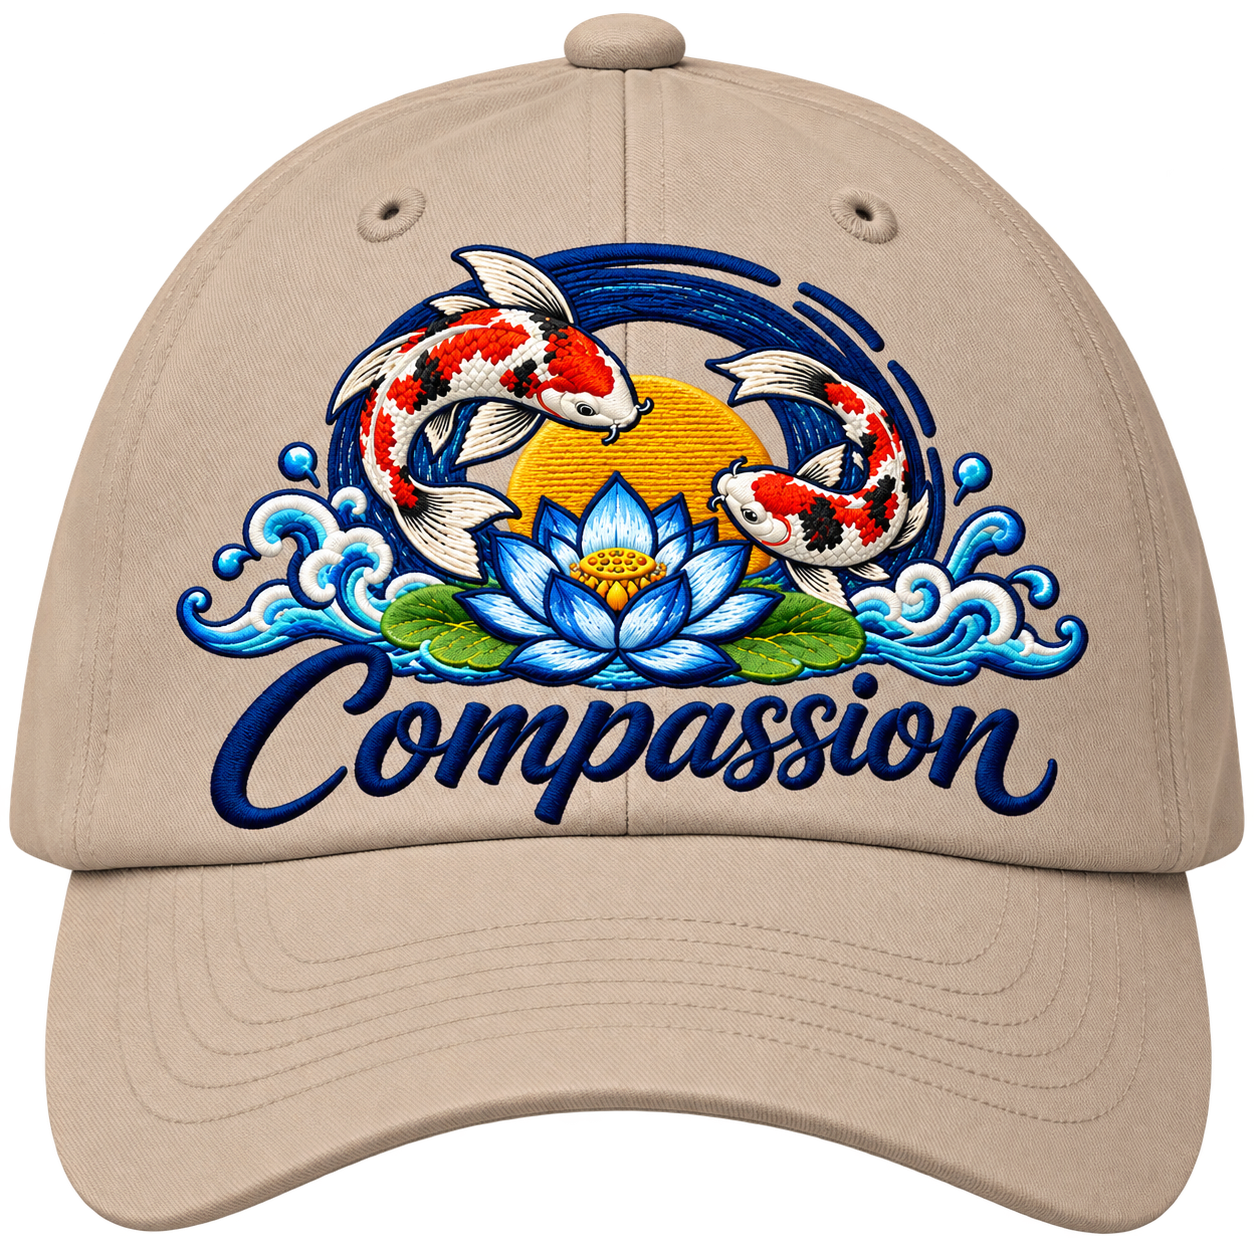
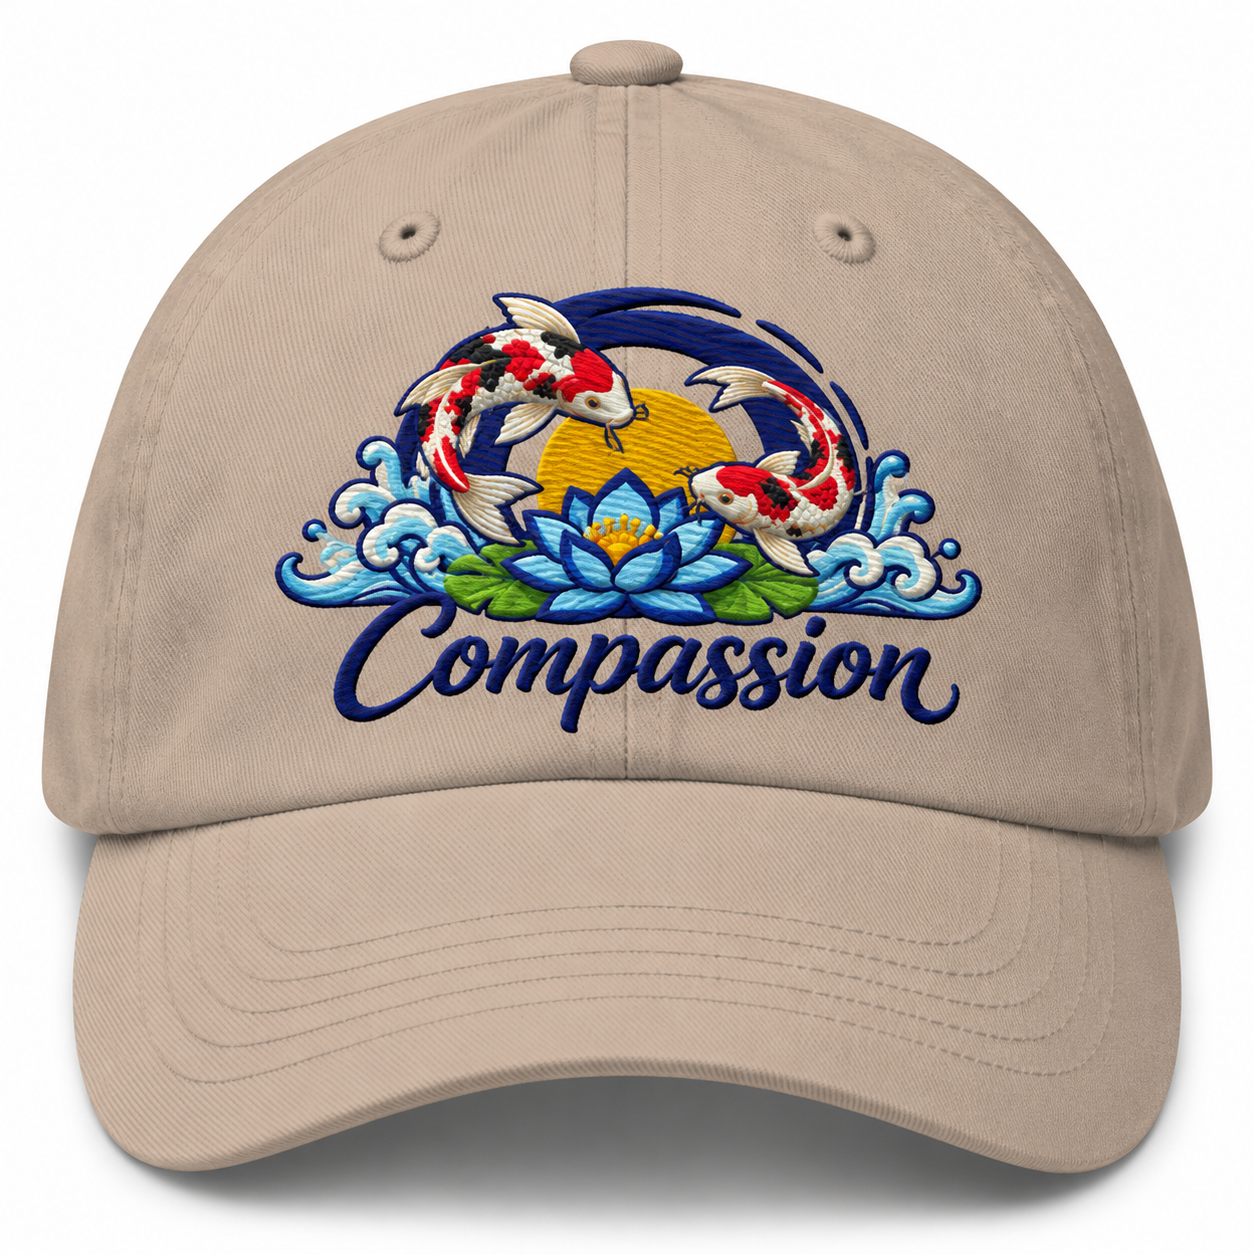
Use accurate cap mockups and group caps after shirts

diff --git a/templates/virtues.html b/templates/virtues.html
@@ -1,6 +1,6 @@
 <!doctype html>
 <html lang="en">
-<head><meta charset="utf-8"><meta name="viewport" content="width=device-width,initial-scale=1"><title>The Virtues Collection | Blue Lotus Temple</title><meta name="description" content="Explore loving-kindness, compassion, appreciative joy, and equanimity in a new Blue Lotus Temple shirt collection."><link rel="stylesheet" href="/static/virtues/style.css"><link rel="stylesheet" href="/static/virtues/product-options.css"><script src="/static/virtues/app.js?v=caps2" defer></script><link rel="stylesheet" href="/static/collection-layout.css?v=1"><style>#shirt[hidden],#capPreview[hidden],.toggle[hidden],#colors[hidden],#sizes[hidden],#logoCaption[hidden]{display:none!important}</style></head>
+<head><meta charset="utf-8"><meta name="viewport" content="width=device-width,initial-scale=1"><title>The Virtues Collection | Blue Lotus Temple</title><meta name="description" content="Explore loving-kindness, compassion, appreciative joy, and equanimity in a new Blue Lotus Temple shirt collection."><link rel="stylesheet" href="/static/virtues/style.css"><link rel="stylesheet" href="/static/virtues/product-options.css"><script src="/static/virtues/app.js?v=caps3" defer></script><link rel="stylesheet" href="/static/collection-layout.css?v=1"><style>#shirt[hidden],#capPreview[hidden],.toggle[hidden],#colors[hidden],#sizes[hidden],#logoCaption[hidden]{display:none!important}#capFrame{position:relative;width:100%;max-width:640px;aspect-ratio:1;margin:auto;overflow:hidden;background:#fff}#capFrame[hidden]{display:none}#capPreview{position:absolute;left:50%;transform:translateX(-50%);width:98.4%;max-width:none;height:auto;top:.8%}#capFrame[data-design="metta_cap"] #capPreview{width:120.7%;top:-6.6%}</style></head>
 <body>
 <svg width="0" height="0" aria-hidden="true" style="position:absolute;pointer-events:none"><defs><filter id="garmentTint" color-interpolation-filters="sRGB"><feColorMatrix id="garmentTintMatrix" type="matrix" values="1 0 0 0 0 0 1 0 0 0 0 0 1 0 0 0 0 0 1 0"/></filter></defs></svg>
 
@@ -11,10 +11,10 @@
 <section class="intro"><p class="eyebrow">Blue Lotus Temple · Woodstock, Illinois</p><h1>Wear a virtue.<br>Practice it every day.</h1><p>Carry a gentle reminder to meet each day with loving-kindness, compassion, joy, and a steady heart. Choose a virtue that speaks to you, and let it guide how you respond to life and care for yourself and others.</p></section>
 <section class="product" aria-label="Choose your virtue shirt or cap">
 <div class="visual"><div class="visual-head"><span id="previewTitle">Loving-kindness · Gray</span><div class="toggle" aria-label="Shirt view"><button id="backButton" aria-pressed="true">Back</button><button id="frontButton" aria-pressed="false">Front</button></div></div>
-<div class="stage"><img id="capPreview" alt="" hidden style="width:100%;height:auto;aspect-ratio:1 / 1;max-width:640px;object-fit:contain;display:block;margin:auto"><div class="shirt back" id="shirt"><img id="garment" class="garment" src="/static/garment-ivory.png" alt="Gray shirt back"><img id="chestLogo" class="chest-logo" src="/static/blue-lotus-logo.png" alt="Blue Lotus Temple logo on wearer’s left chest" hidden><div class="print-area" id="printArea"><span class="print-kicker">A daily practice</span><strong id="printName">Loving<br>kindness</strong><span id="printPali">Mettā</span><span class="print-rule"></span><p id="printPhrase">May all beings be well.</p><small>ARTWORK TO COME</small></div></div></div>
+<div class="stage"><div id="capFrame" hidden><img id="capPreview" alt="" hidden></div><div class="shirt back" id="shirt"><img id="garment" class="garment" src="/static/garment-ivory.png" alt="Gray shirt back"><img id="chestLogo" class="chest-logo" src="/static/blue-lotus-logo.png" alt="Blue Lotus Temple logo on wearer’s left chest" hidden><div class="print-area" id="printArea"><span class="print-kicker">A daily practice</span><strong id="printName">Loving<br>kindness</strong><span id="printPali">Mettā</span><span class="print-rule"></span><p id="printPhrase">May all beings be well.</p><small>ARTWORK TO COME</small></div></div></div>
 <div class="caption"><span id="placement">Back · Mettā artwork</span><span id="logoCaption">Blue logo on front left chest</span></div></div>
 <div class="options"><p class="eyebrow">The Four Immeasurables</p><h2 id="productName">Loving-kindness Tee</h2><div class="price"><span id="price">$35.00</span> <small>USD</small></div><p class="product-info">Comfort Colors® garment-dyed cotton<br>Virtue artwork on the back. Blue Lotus on the heart side.</p>
-<label class="label" for="virtue">Choose your virtue</label><div class="select"><select id="virtue"><option value="metta">Loving-kindness · Mettā</option><option value="metta_cap">Loving-kindness Cap · Mettā</option><option value="karuna">Compassion · Karuṇā</option><option value="karuna_cap">Compassion Cap · Karuṇā</option><option value="karuna_crane">Compassion · Crane · Karuṇā</option><option value="mudita">Appreciative joy · Muditā</option><option value="upekkha">Equanimity · Upekkhā</option><option value="upekkha_koi">Equanimity – Koi · Upekkhā</option></select></div>
+<label class="label" for="virtue">Choose your virtue</label><div class="select"><select id="virtue"><option value="metta">Loving-kindness · Mettā</option><option value="metta_cap">Loving-kindness Cap · Mettā</option><option value="karuna">Compassion · Karuṇā</option><option value="karuna_crane">Compassion · Crane · Karuṇā</option><option value="karuna_cap">Compassion Cap · Karuṇā</option><option value="mudita">Appreciative joy · Muditā</option><option value="upekkha">Equanimity · Upekkhā</option><option value="upekkha_koi">Equanimity – Koi · Upekkhā</option></select></div>
 <div class="reflection" aria-live="polite"><span id="pali">Mettā / Loving-kindness</span><p id="meaning"></p><strong>A practice for today</strong><p id="practice"></p></div>
 <fieldset><legend>Color</legend><div class="colors" id="colors"></div></fieldset>
 <fieldset><legend>Size</legend><div class="sizes" id="sizes"></div></fieldset>

diff --git a/static/virtues/app.js b/static/virtues/app.js
@@ -35,8 +35,8 @@ function update(){
  $('frontButton').setAttribute('aria-pressed',String(front));$('backButton').setAttribute('aria-pressed',String(!front));
  $('price').textContent=state.size==='2XL'?'$38.00':'$35.00';
  const available=Boolean(product),valid=$('quantity').checkValidity();$('addButton').disabled=!available||!valid;$('addButton').textContent=available?'Add to cart · '+money(priceFor(state.size)*(valid?quantity():1)):'Artwork coming soon';$('availability').textContent=available?'Shipping and tax will be confirmed by email. No payment is collected here.':'This virtue’s artwork is still in development.';
- $('capPreview').hidden=!cap;$('shirt').hidden=cap;
- $('capPreview').src=cap?'/static/'+product.file:'';$('capPreview').alt=cap?v.name+' cap in Stone':'';
+ $('capFrame').hidden=!cap;$('capFrame').dataset.design=state.virtue;$('capPreview').hidden=!cap;$('shirt').hidden=cap;
+ $('capPreview').src=cap?'/static/'+product.file+'?v=correct-scale':'';$('capPreview').alt=cap?v.name+' cap in Stone':'';
  document.querySelector('.toggle').hidden=cap;
  $('logoCaption').hidden=cap;
  document.querySelector('.product-info').textContent=cap?'Stone cap · One size fits all':'Comfort Colors® garment-dyed cotton. Virtue artwork on the back. Blue Lotus on the heart side.';
